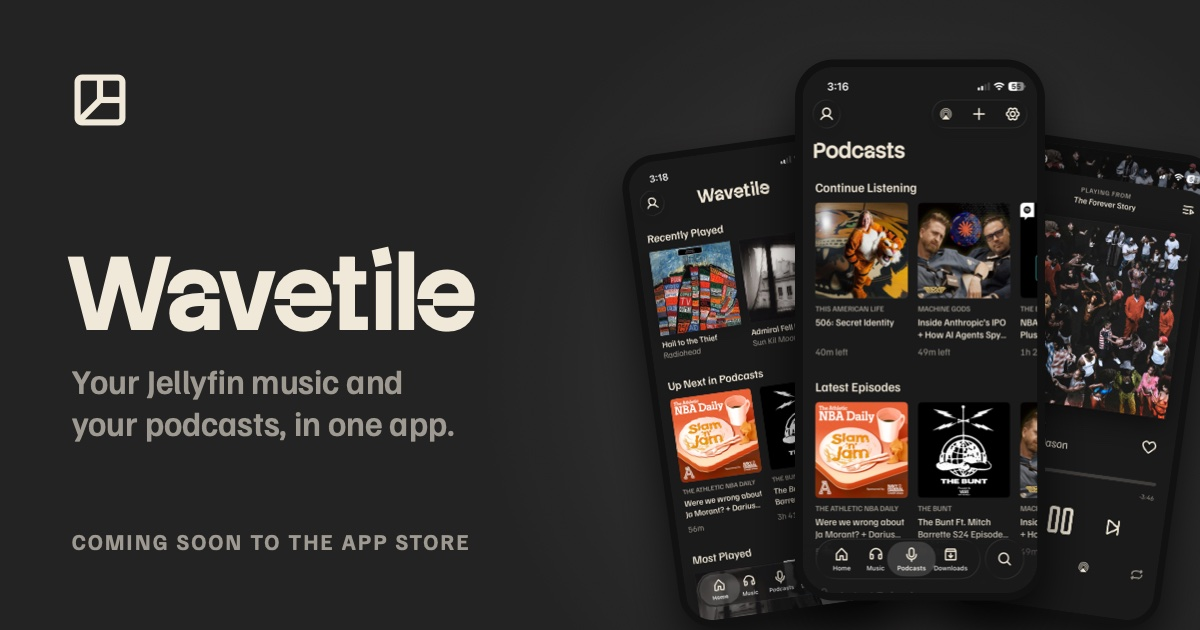
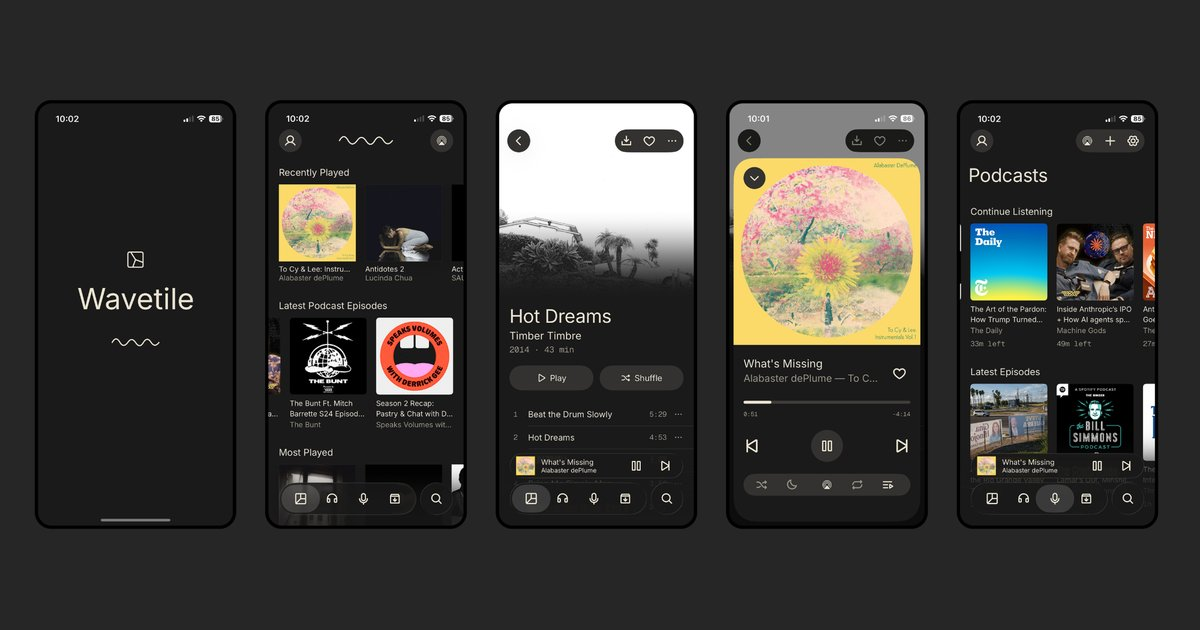
Site: feature headings, new share image, breadcrumbs, lazy marquee copies; llms.txt CarPlay

diff --git a/site/index.html b/site/index.html
@@ -14,10 +14,10 @@
 <meta property="og:url" content="https://wavetile.com/">
 <meta property="og:title" content="Wavetile: your Jellyfin music and your podcasts, in one app">
 <meta property="og:description" content="A Jellyfin music player for iPhone with a full podcast player built in. Gapless, offline, private.">
-<meta property="og:image" content="https://wavetile.com/og.jpg">
+<meta property="og:image" content="https://wavetile.com/og.jpg?v=2">
 <meta property="og:image:width" content="1200">
 <meta property="og:image:height" content="630">
-<meta property="og:image:alt" content="Wavetile screens: Home, Podcasts and Now Playing">
+<meta property="og:image:alt" content="Wavetile screens: launch screen, Home, album, Now Playing and Podcasts">
 <meta name="twitter:card" content="summary_large_image">
 
 <!-- Uncomment at launch: shows Safari's Smart App Banner on iPhone. -->
@@ -43,7 +43,7 @@
       "operatingSystem": "iOS 26.1 or later",
       "applicationCategory": "MusicApplication",
       "url": "https://wavetile.com/",
-      "image": "https://wavetile.com/og.jpg",
+      "image": "https://wavetile.com/og.jpg?v=2",
       "screenshot": [
         "https://wavetile.com/assets/screens/home.webp?v=2",
         "https://wavetile.com/assets/screens/music.webp?v=2",
@@ -100,13 +100,13 @@
       <span class="device"><img src="/assets/screens/downloads.webp?v=2" width="924" height="2000" alt="Downloads tab with downloaded albums and their sizes"></span>
       <span class="device"><img src="/assets/screens/splash.webp?v=2" width="924" height="2000" alt="The Wavetile launch screen: the cube over the word Wavetile over the wave"></span>
       <span class="marquee__copy" aria-hidden="true">
-      <span class="device"><img src="/assets/screens/home.webp?v=2" width="924" height="2000" alt=""></span>
-      <span class="device"><img src="/assets/screens/music.webp?v=2" width="924" height="2000" alt=""></span>
-      <span class="device"><img src="/assets/screens/album.webp?v=2" width="924" height="2000" alt=""></span>
-      <span class="device"><img src="/assets/screens/nowplaying.webp?v=2" width="924" height="2000" alt=""></span>
-      <span class="device"><img src="/assets/screens/podcasts.webp?v=2" width="924" height="2000" alt=""></span>
-      <span class="device"><img src="/assets/screens/downloads.webp?v=2" width="924" height="2000" alt=""></span>
-      <span class="device"><img src="/assets/screens/splash.webp?v=2" width="924" height="2000" alt=""></span>
+      <span class="device"><img src="/assets/screens/home.webp?v=2" width="924" height="2000" alt="" loading="lazy" decoding="async"></span>
+      <span class="device"><img src="/assets/screens/music.webp?v=2" width="924" height="2000" alt="" loading="lazy" decoding="async"></span>
+      <span class="device"><img src="/assets/screens/album.webp?v=2" width="924" height="2000" alt="" loading="lazy" decoding="async"></span>
+      <span class="device"><img src="/assets/screens/nowplaying.webp?v=2" width="924" height="2000" alt="" loading="lazy" decoding="async"></span>
+      <span class="device"><img src="/assets/screens/podcasts.webp?v=2" width="924" height="2000" alt="" loading="lazy" decoding="async"></span>
+      <span class="device"><img src="/assets/screens/downloads.webp?v=2" width="924" height="2000" alt="" loading="lazy" decoding="async"></span>
+      <span class="device"><img src="/assets/screens/splash.webp?v=2" width="924" height="2000" alt="" loading="lazy" decoding="async"></span>
       </span>
     </div>
   </section>
@@ -114,18 +114,22 @@
   <section class="features panel" aria-label="Features">
     <div class="feature reveal">
       <span class="icon" data-icon="microphone" aria-hidden="true"></span>
+      <h2>Podcasts next to your Jellyfin music</h2>
       <p>Podcasts next to your music, with chapters, transcripts and subscriptions synced through Jellyfin.</p>
     </div>
     <div class="feature reveal">
       <span class="icon" data-icon="gauge" aria-hidden="true"></span>
+      <h2>Instant, even with 50,000 tracks</h2>
       <p>A local copy of your library keeps browsing instant, even with 50,000 tracks.</p>
     </div>
     <div class="feature reveal">
       <span class="icon" data-icon="cloud-slash" aria-hidden="true"></span>
+      <h2>Offline, in MP3 or FLAC</h2>
       <p>Works offline. Download albums, playlists and episodes as MP3 or original FLAC.</p>
     </div>
     <div class="feature reveal">
       <span class="icon" data-icon="lock" aria-hidden="true"></span>
+      <h2>No account, no tracking</h2>
       <p>No account, no analytics, no tracking. Just your server and your podcast feeds.</p>
     </div>
   </section>

diff --git a/site/jellyfin-podcasts.html b/site/jellyfin-podcasts.html
@@ -11,13 +11,33 @@
 <meta property="og:site_name" content="Wavetile">
 <meta property="og:title" content="Podcasts with Jellyfin on iPhone · Wavetile">
 <meta property="og:description" content="Listen to podcasts alongside your Jellyfin music on iPhone. Wavetile adds directory search, OPML, chapters, transcripts and downloads, synced through your Jellyfin account.">
-<meta property="og:image" content="https://wavetile.com/og.jpg">
+<meta property="og:image" content="https://wavetile.com/og.jpg?v=2">
 <meta name="twitter:card" content="summary_large_image">
 <link rel="icon" href="/favicon.svg" type="image/svg+xml">
 <link rel="apple-touch-icon" href="/apple-touch-icon.png">
 <link rel="preload" href="/assets/fonts/Inter-Regular.woff2" as="font" type="font/woff2" crossorigin>
 <link rel="stylesheet" href="/styles.css">
 <script src="/main.js"></script>
+<script type="application/ld+json">
+{
+  "@context": "https://schema.org",
+  "@type": "BreadcrumbList",
+  "itemListElement": [
+    {
+      "@type": "ListItem",
+      "position": 1,
+      "name": "Wavetile",
+      "item": "https://wavetile.com/"
+    },
+    {
+      "@type": "ListItem",
+      "position": 2,
+      "name": "Podcasts with Jellyfin",
+      "item": "https://wavetile.com/jellyfin-podcasts"
+    }
+  ]
+}
+</script>
 </head>
 <body>
 <header class="top">

diff --git a/site/getting-started.html b/site/getting-started.html
@@ -11,13 +11,33 @@
 <meta property="og:site_name" content="Wavetile">
 <meta property="og:title" content="Download and set up Wavetile · Jellyfin music on iPhone">
 <meta property="og:description" content="Join the Wavetile beta on TestFlight, then sign in to your Jellyfin server or use Quick Connect, sync your library, download music for offline and turn on podcasts.">
-<meta property="og:image" content="https://wavetile.com/og.jpg">
+<meta property="og:image" content="https://wavetile.com/og.jpg?v=2">
 <meta name="twitter:card" content="summary_large_image">
 <link rel="icon" href="/favicon.svg" type="image/svg+xml">
 <link rel="apple-touch-icon" href="/apple-touch-icon.png">
 <link rel="preload" href="/assets/fonts/Inter-Regular.woff2" as="font" type="font/woff2" crossorigin>
 <link rel="stylesheet" href="/styles.css">
 <script src="/main.js"></script>
+<script type="application/ld+json">
+{
+  "@context": "https://schema.org",
+  "@type": "BreadcrumbList",
+  "itemListElement": [
+    {
+      "@type": "ListItem",
+      "position": 1,
+      "name": "Wavetile",
+      "item": "https://wavetile.com/"
+    },
+    {
+      "@type": "ListItem",
+      "position": 2,
+      "name": "Download Wavetile",
+      "item": "https://wavetile.com/getting-started"
+    }
+  ]
+}
+</script>
 </head>
 <body>
 <header class="top">

diff --git a/site/why-wavetile.html b/site/why-wavetile.html
@@ -11,13 +11,33 @@
 <meta property="og:site_name" content="Wavetile">
 <meta property="og:title" content="Why Wavetile · A Jellyfin music app for iPhone with podcasts built in">
 <meta property="og:description" content="What makes Wavetile different from other Jellyfin music apps for iPhone: podcasts built in, an instant offline library, gapless playback and no tracking.">
-<meta property="og:image" content="https://wavetile.com/og.jpg">
+<meta property="og:image" content="https://wavetile.com/og.jpg?v=2">
 <meta name="twitter:card" content="summary_large_image">
 <link rel="icon" href="/favicon.svg" type="image/svg+xml">
 <link rel="apple-touch-icon" href="/apple-touch-icon.png">
 <link rel="preload" href="/assets/fonts/Inter-Regular.woff2" as="font" type="font/woff2" crossorigin>
 <link rel="stylesheet" href="/styles.css">
 <script src="/main.js"></script>
+<script type="application/ld+json">
+{
+  "@context": "https://schema.org",
+  "@type": "BreadcrumbList",
+  "itemListElement": [
+    {
+      "@type": "ListItem",
+      "position": 1,
+      "name": "Wavetile",
+      "item": "https://wavetile.com/"
+    },
+    {
+      "@type": "ListItem",
+      "position": 2,
+      "name": "Why Wavetile",
+      "item": "https://wavetile.com/why-wavetile"
+    }
+  ]
+}
+</script>
 </head>
 <body>
 <header class="top">

diff --git a/site/privacy.html b/site/privacy.html
@@ -11,13 +11,33 @@
 <meta property="og:site_name" content="Wavetile">
 <meta property="og:title" content="Privacy Policy · Wavetile">
 <meta property="og:description" content="Wavetile collects no data. No account, no analytics, no tracking. Here is exactly what the app stores and who it talks to.">
-<meta property="og:image" content="https://wavetile.com/og.jpg">
+<meta property="og:image" content="https://wavetile.com/og.jpg?v=2">
 <meta name="twitter:card" content="summary_large_image">
 <link rel="icon" href="/favicon.svg" type="image/svg+xml">
 <link rel="apple-touch-icon" href="/apple-touch-icon.png">
 <link rel="preload" href="/assets/fonts/Inter-Regular.woff2" as="font" type="font/woff2" crossorigin>
 <link rel="stylesheet" href="/styles.css">
 <script src="/main.js"></script>
+<script type="application/ld+json">
+{
+  "@context": "https://schema.org",
+  "@type": "BreadcrumbList",
+  "itemListElement": [
+    {
+      "@type": "ListItem",
+      "position": 1,
+      "name": "Wavetile",
+      "item": "https://wavetile.com/"
+    },
+    {
+      "@type": "ListItem",
+      "position": 2,
+      "name": "Privacy Policy",
+      "item": "https://wavetile.com/privacy"
+    }
+  ]
+}
+</script>
 </head>
 <body>
 <header class="top">

diff --git a/site/support.html b/site/support.html
@@ -11,13 +11,33 @@
 <meta property="og:site_name" content="Wavetile">
 <meta property="og:title" content="Support · Wavetile">
 <meta property="og:description" content="Get help with Wavetile, the Jellyfin music and podcast player for iPhone: signing in, offline downloads, podcasts and troubleshooting.">
-<meta property="og:image" content="https://wavetile.com/og.jpg">
+<meta property="og:image" content="https://wavetile.com/og.jpg?v=2">
 <meta name="twitter:card" content="summary_large_image">
 <link rel="icon" href="/favicon.svg" type="image/svg+xml">
 <link rel="apple-touch-icon" href="/apple-touch-icon.png">
 <link rel="preload" href="/assets/fonts/Inter-Regular.woff2" as="font" type="font/woff2" crossorigin>
 <link rel="stylesheet" href="/styles.css">
 <script src="/main.js"></script>
+<script type="application/ld+json">
+{
+  "@context": "https://schema.org",
+  "@type": "BreadcrumbList",
+  "itemListElement": [
+    {
+      "@type": "ListItem",
+      "position": 1,
+      "name": "Wavetile",
+      "item": "https://wavetile.com/"
+    },
+    {
+      "@type": "ListItem",
+      "position": 2,
+      "name": "Support",
+      "item": "https://wavetile.com/support"
+    }
+  ]
+}
+</script>
 </head>
 <body>
 <header class="top">

diff --git a/site/styles.css b/site/styles.css
@@ -171,7 +171,10 @@ h1, h2, p { margin: 0; }
   padding: clamp(64px, 7vw, 100px) clamp(28px, 3.2vw, 40px);
 }
 .feature { display: grid; align-content: start; gap: 18px; }
-.feature p { font-size: 12px; line-height: 1.5; color: var(--ink); max-width: 265px; text-wrap: pretty; }
+.feature h2 { font-weight: 400; font-size: 14px; line-height: 1.3; color: var(--ink); text-wrap: balance; }
+/* The heading sits close to its line, the icon further off. */
+.feature h2 + p { margin-top: -12px; }
+.feature p { font-size: 12px; line-height: 1.5; color: var(--ink-2); max-width: 265px; text-wrap: pretty; }
 /* Icons: Phosphor's stroke source (raw/regular), each drawn with a 1.5px line to match the wave and
    cube. The stroke is baked into the SVG for the size it's shown at (256-unit grid): 16 at 24px
    (feature icons), 24 at 16px (the button arrow). A new size needs its own stroke: 384 / px. */

diff --git a/site/404.html b/site/404.html
@@ -11,7 +11,7 @@
 <meta property="og:site_name" content="Wavetile">
 <meta property="og:title" content="Page not found · Wavetile">
 <meta property="og:description" content="This page doesn't exist.">
-<meta property="og:image" content="https://wavetile.com/og.jpg">
+<meta property="og:image" content="https://wavetile.com/og.jpg?v=2">
 <meta name="twitter:card" content="summary_large_image">
 <link rel="icon" href="/favicon.svg" type="image/svg+xml">
 <link rel="apple-touch-icon" href="/apple-touch-icon.png">
